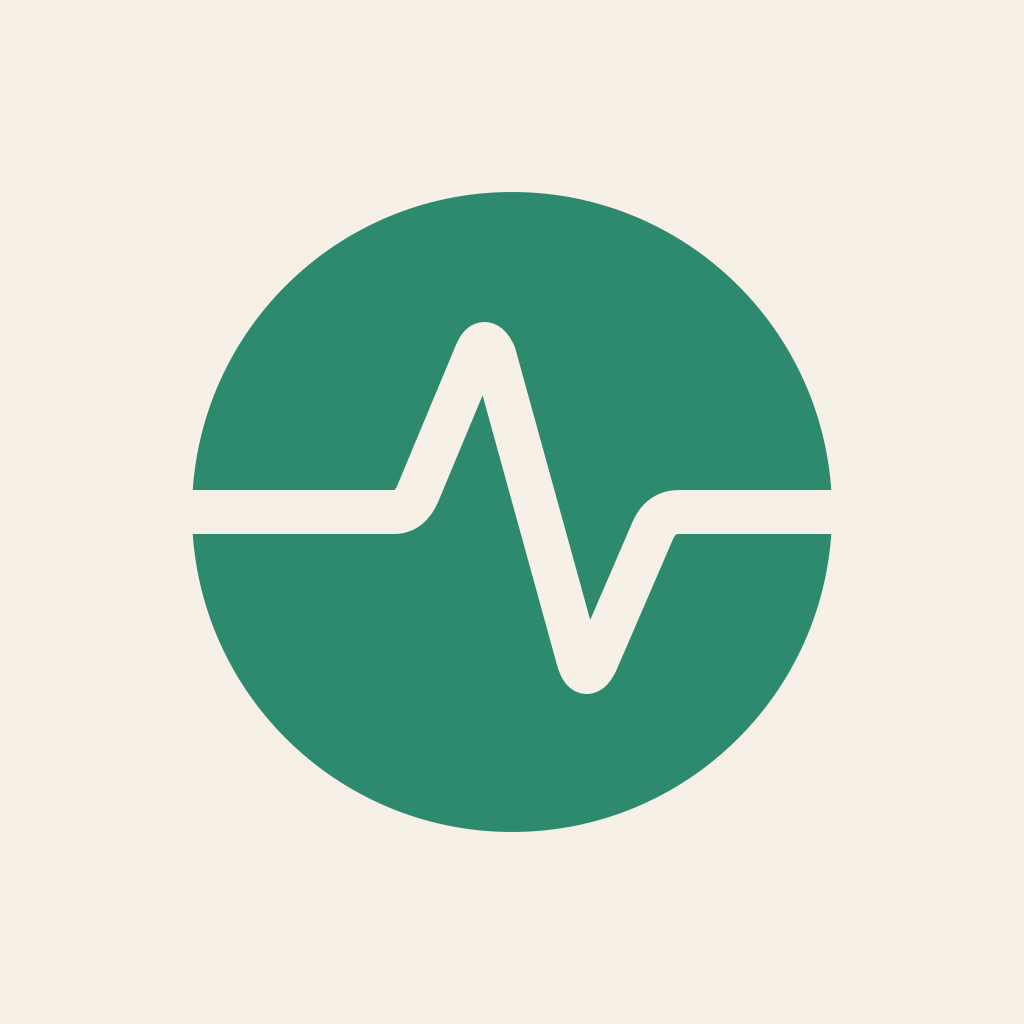
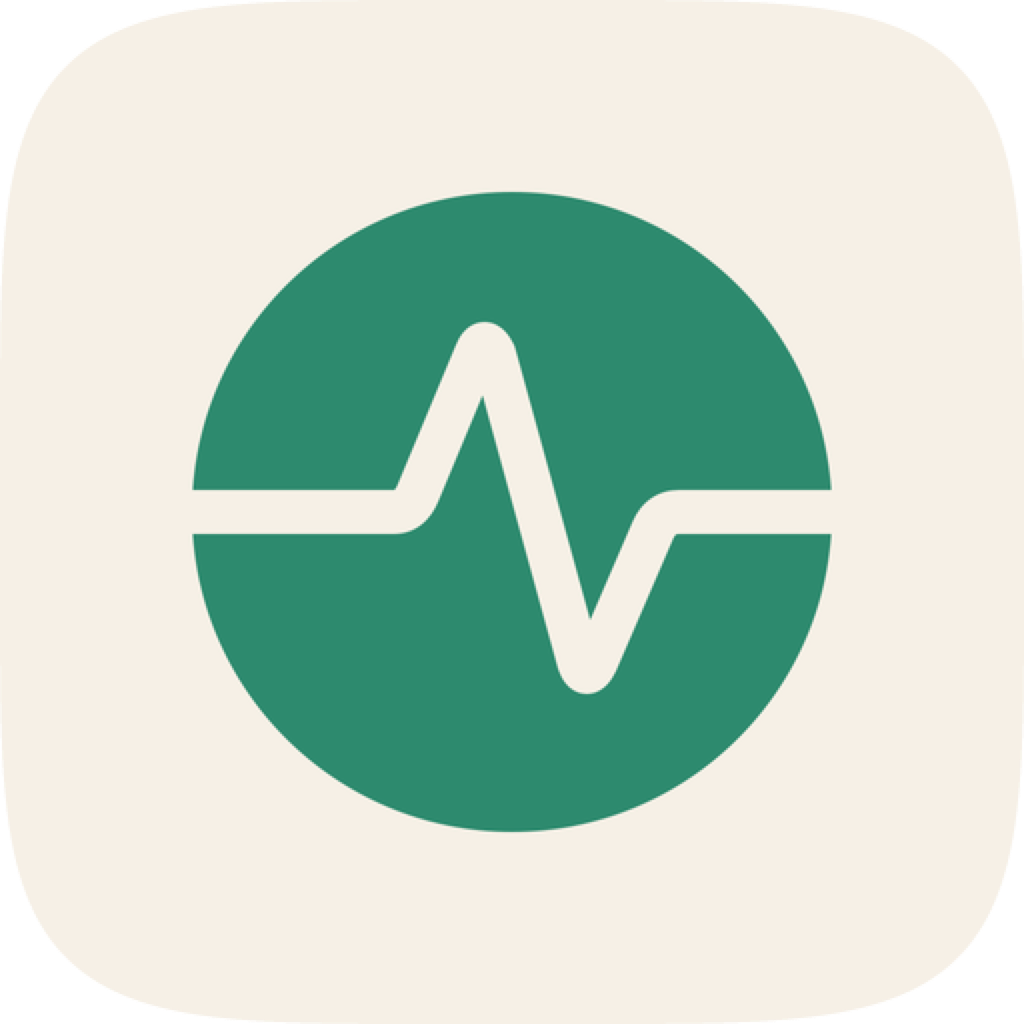
Make native upgrades safe across machines
Harden stale-daemon cleanup, derive the app icon from its rounded source, use the system appearance surface, and require trusted distribution artifacts before publishing.

Constraint: Menu bar badge rendering must remain unchanged.

Rejected: Trust stale PID files after a failed identity probe | PID reuse can terminate unrelated processes.

Rejected: Ship ad-hoc signed update artifacts | Gatekeeper rejects them on other machines.

Confidence: high

Scope-risk: moderate

Directive: Release builds must use Developer ID signing and notarization before Sparkle appcast generation.

Tested: npm test; npm run typecheck; npm run test:e2e; swift build -c release; app packaging; codesign verification; DMG verification

Not-tested: Apple notarization submission because no Developer ID Application identity or notary profile is configured locally

diff --git a/TokenDashSwift/Sources/TokenDash/DaemonManager.swift b/TokenDashSwift/Sources/TokenDash/DaemonManager.swift
@@ -15,6 +15,12 @@ import Foundation
         Bundle.main.infoDictionary?["CFBundleShortVersionString"] as? String ?? "dev"
     }
 
+    private enum DaemonProbe: Equatable {
+        case compatible
+        case tokenDashVersionMismatch
+        case unavailableOrForeign
+    }
+
     // MARK: - Public
 
     func startDaemon() async throws -> Int {
@@ -22,13 +28,19 @@ import Foundation
         // localhost service can occupy the same port, so verify TokenDash's API
         // identity before trusting a saved port.
         if let existingPort = readPortFile() {
-            if await isCompatibleDaemon(port: existingPort) {
+            switch await probeDaemon(port: existingPort) {
+            case .compatible:
                 isRunning = true
                 self.port = existingPort
                 return existingPort
+            case .tokenDashVersionMismatch:
+                await cleanupIncompatibleDaemon(pid: readPidFile())
+            case .unavailableOrForeign:
+                // A stale PID can already belong to an unrelated process.
+                // Never signal it unless both the API and process command
+                // identify an old TokenDash daemon.
+                cleanupFiles()
             }
-
-            cleanupIncompatibleDaemon(pid: readPidFile())
         }
 
         // Find node binary
@@ -54,7 +66,7 @@ import Foundation
         // Wait for port file to appear (max 10s)
         let deadline = Date().addingTimeInterval(10)
         while Date() < deadline {
-            if let port = readPortFile(), await isCompatibleDaemon(port: port) {
+            if let port = readPortFile(), await probeDaemon(port: port) == .compatible {
                 isRunning = true
                 self.port = port
                 return port
@@ -162,23 +174,57 @@ import Foundation
         return kill(pid, 0) == 0
     }
 
-    private func isCompatibleDaemon(port: Int) async -> Bool {
+    private func probeDaemon(port: Int) async -> DaemonProbe {
         do {
             let info = try await APIClient(port: port).getAppInfo(timeout: 1.0)
-            guard info.packageName == APIClient.expectedPackageName else { return false }
+            guard info.packageName == APIClient.expectedPackageName else {
+                return .unavailableOrForeign
+            }
             let normalizedAppVersion = appVersion.replacingOccurrences(of: "^v", with: "", options: .regularExpression)
-            if normalizedAppVersion == "dev" { return true }
-            return info.version.replacingOccurrences(of: "^v", with: "", options: .regularExpression) == normalizedAppVersion
+            if normalizedAppVersion == "dev" { return .compatible }
+            let daemonVersion = info.version.replacingOccurrences(of: "^v", with: "", options: .regularExpression)
+            return daemonVersion == normalizedAppVersion ? .compatible : .tokenDashVersionMismatch
+        } catch {
+            return .unavailableOrForeign
+        }
+    }
+
+    private func cleanupIncompatibleDaemon(pid: pid_t?) async {
+        if let pid, isProcessAlive(pid: pid), isTokenDashDaemonProcess(pid: pid) {
+            await stopDaemonProcessAsync(pid: pid)
+        }
+        cleanupFiles()
+    }
+
+    private func isTokenDashDaemonProcess(pid: pid_t) -> Bool {
+        let proc = Process()
+        let pipe = Pipe()
+        proc.executableURL = URL(fileURLWithPath: "/bin/ps")
+        proc.arguments = ["-p", String(pid), "-o", "command="]
+        proc.standardOutput = pipe
+        proc.standardError = FileHandle.nullDevice
+        do {
+            try proc.run()
+            proc.waitUntilExit()
+            guard proc.terminationStatus == 0 else { return false }
+            let data = pipe.fileHandleForReading.readDataToEndOfFile()
+            let command = String(data: data, encoding: .utf8) ?? ""
+            return command.contains("daemon.cjs") && command.localizedCaseInsensitiveContains("tokendash")
         } catch {
             return false
         }
     }
 
-    private func cleanupIncompatibleDaemon(pid: pid_t?) {
-        if let pid, isProcessAlive(pid: pid) {
-            stopDaemonProcess(pid: pid)
+    private func stopDaemonProcessAsync(pid: pid_t) async {
+        kill(pid, SIGTERM)
+        let deadline = Date().addingTimeInterval(2)
+        while Date() < deadline {
+            if !isProcessAlive(pid: pid) { return }
+            try? await Task.sleep(nanoseconds: 50_000_000)
         }
-        cleanupFiles()
+        if isProcessAlive(pid: pid) {
+            kill(pid, SIGKILL)
+        }
     }
 
     private func stopDaemonProcess(pid: pid_t) {

diff --git a/src/__tests__/server/nativeAppPackaging.test.ts b/src/__tests__/server/nativeAppPackaging.test.ts
@@ -10,22 +10,35 @@ describe('native app packaging resources', () => {
     expect(badgeUpdater).toContain('image.isTemplate = true');
   });
 
-  it('uses one adaptive background token for the native popover and header', () => {
-    const helpers = readFileSync('TokenDashSwift/Sources/TokenDash/Helpers.swift', 'utf8');
-    expect(helpers).toContain('static let popoverBackground: Color = nativePopoverSurface');
-    expect(helpers).toContain('static let headerBackground: Color = nativePopoverSurface');
-    expect(helpers).toContain('static let nativePopoverSurface');
-    expect(helpers).toContain('case .light:');
-    expect(helpers).toContain('return NSColor.white');
-    expect(helpers).toContain('case .dark:');
-    expect(helpers).toContain('return NSColor.windowBackgroundColor');
-    expect(helpers).not.toContain('.controlBackgroundColor');
+  it('builds the app icon from the rounded transparent source asset', () => {
+    const iconScript = readFileSync('scripts/generate-icon.sh', 'utf8');
+    expect(iconScript).toContain('SOURCE_ICON="$REPO_ROOT/resources/icon.png"');
+    expect(iconScript).toContain('iconutil -c icns');
+    expect(iconScript).toContain('[email redacted]');
   });
 
-  it('cleans stale or incompatible daemon state during native app upgrades', () => {
+  it('uses one adaptive background token for the native popover and header', () => {
+    const helpers = readFileSync('TokenDashSwift/Sources/TokenDash/Helpers.swift', 'utf8');
+    expect(helpers).toContain('Color(nsColor: .windowBackgroundColor)');
+    expect(helpers).not.toContain('NSColor(name:');
+    expect(helpers).not.toContain('case .light:');
+    expect(helpers).not.toContain('case .dark:');
+  });
+
+  it('does not signal an unrelated process from stale daemon state', () => {
     const daemonManager = readFileSync('TokenDashSwift/Sources/TokenDash/DaemonManager.swift', 'utf8');
     expect(daemonManager).toContain('cleanupIncompatibleDaemon');
-    expect(daemonManager).toContain('stopDaemonProcess(pid:');
-    expect(daemonManager).toContain('await isCompatibleDaemon(port: existingPort)');
+    expect(daemonManager).toContain('isTokenDashDaemonProcess(pid: pid)');
+    expect(daemonManager).toContain('case .unavailableOrForeign:');
+    expect(daemonManager).toContain('cleanupFiles()');
+  });
+
+  it('requires signed and notarized artifacts for publishing', () => {
+    const packageApp = readFileSync('scripts/package-app.sh', 'utf8');
+    const deploy = readFileSync('scripts/deploy.sh', 'utf8');
+    expect(packageApp).toContain('RELEASE_BUILD requires CODESIGN_IDENTITY');
+    expect(deploy).toContain('xcrun notarytool submit');
+    expect(deploy).toContain('xcrun stapler staple');
+    expect(deploy).toContain('Developer ID Application:');
   });
 });

diff --git a/TokenDashSwift/Sources/TokenDash/Helpers.swift b/TokenDashSwift/Sources/TokenDash/Helpers.swift
@@ -24,22 +24,10 @@ extension Color {
     static let barTrackColor: Color = .primary.opacity(0.04)
     static let secondaryLabel: Color = .primary.opacity(0.45)
     static let tertiaryLabel: Color = .primary.opacity(0.3)
-    // One adaptive surface token keeps header/body unified without breaking dark mode.
-    static let nativePopoverSurface = Color(nsColor: NSColor(name: NSColor.Name("TokenDashPopoverSurface")) { appearance in
-        let scheme = appearance.bestMatch(from: [.darkAqua, .aqua]) == .darkAqua
-            ? ColorScheme.dark
-            : ColorScheme.light
-        switch scheme {
-        case .light:
-            return NSColor.white
-        case .dark:
-            return NSColor.windowBackgroundColor
-        @unknown default:
-            return NSColor.white
-        }
-    })
-    static let popoverBackground: Color = nativePopoverSurface
-    static let headerBackground: Color = nativePopoverSurface
+    // Use the system semantic surface so appearance changes are resolved by
+    // SwiftUI/AppKit instead of maintaining a parallel light/dark palette.
+    static let popoverBackground = Color(nsColor: .windowBackgroundColor)
+    static let headerBackground = Color(nsColor: .windowBackgroundColor)
 }
 
 // MARK: - Number formatting

diff --git a/docs/updating.md b/docs/updating.md
@@ -75,10 +75,11 @@ npm run deploy
 The deploy command:
 
 1. Repeats all verification and artifact generation.
-2. Creates a draft GitHub Release containing both the DMG and `appcast.xml`.
-3. Publishes the matching npm version.
-4. Pushes the release tag.
-5. Publishes the GitHub Release as the latest release.
+2. Signs the app and DMG with Developer ID, notarizes the DMG, and staples the ticket.
+3. Creates a draft GitHub Release containing both the DMG and `appcast.xml`.
+4. Publishes the matching npm version.
+5. Pushes the release tag.
+6. Publishes the GitHub Release as the latest release.
 
 The command fails before publishing when the npm version, git tag, release, key,
 DMG, appcast, or signature is missing or inconsistent. Do not publish npm or
@@ -89,6 +90,18 @@ Local releases use the Sparkle private key in the login Keychain. CI can inject
 the same key without importing it by setting `SPARKLE_PRIVATE_KEY_FILE` to a
 file containing the base64-encoded EdDSA seed and `SPARKLE_EDDSA_PUB` to the
 matching public key.
+
+Distribution also requires:
+
+```bash
+export CODESIGN_IDENTITY="Developer ID Application: Your Name (TEAMID)"
+export NOTARY_PROFILE="tokendash-notary"
+xcrun notarytool store-credentials "$NOTARY_PROFILE"
+```
+
+`npm run deploy` refuses to publish an ad-hoc-signed or non-notarized build.
+`npm run deploy:check` remains usable for local verification and may produce an
+ad-hoc-signed artifact that is not suitable for distribution.
 
 ## Notes
 